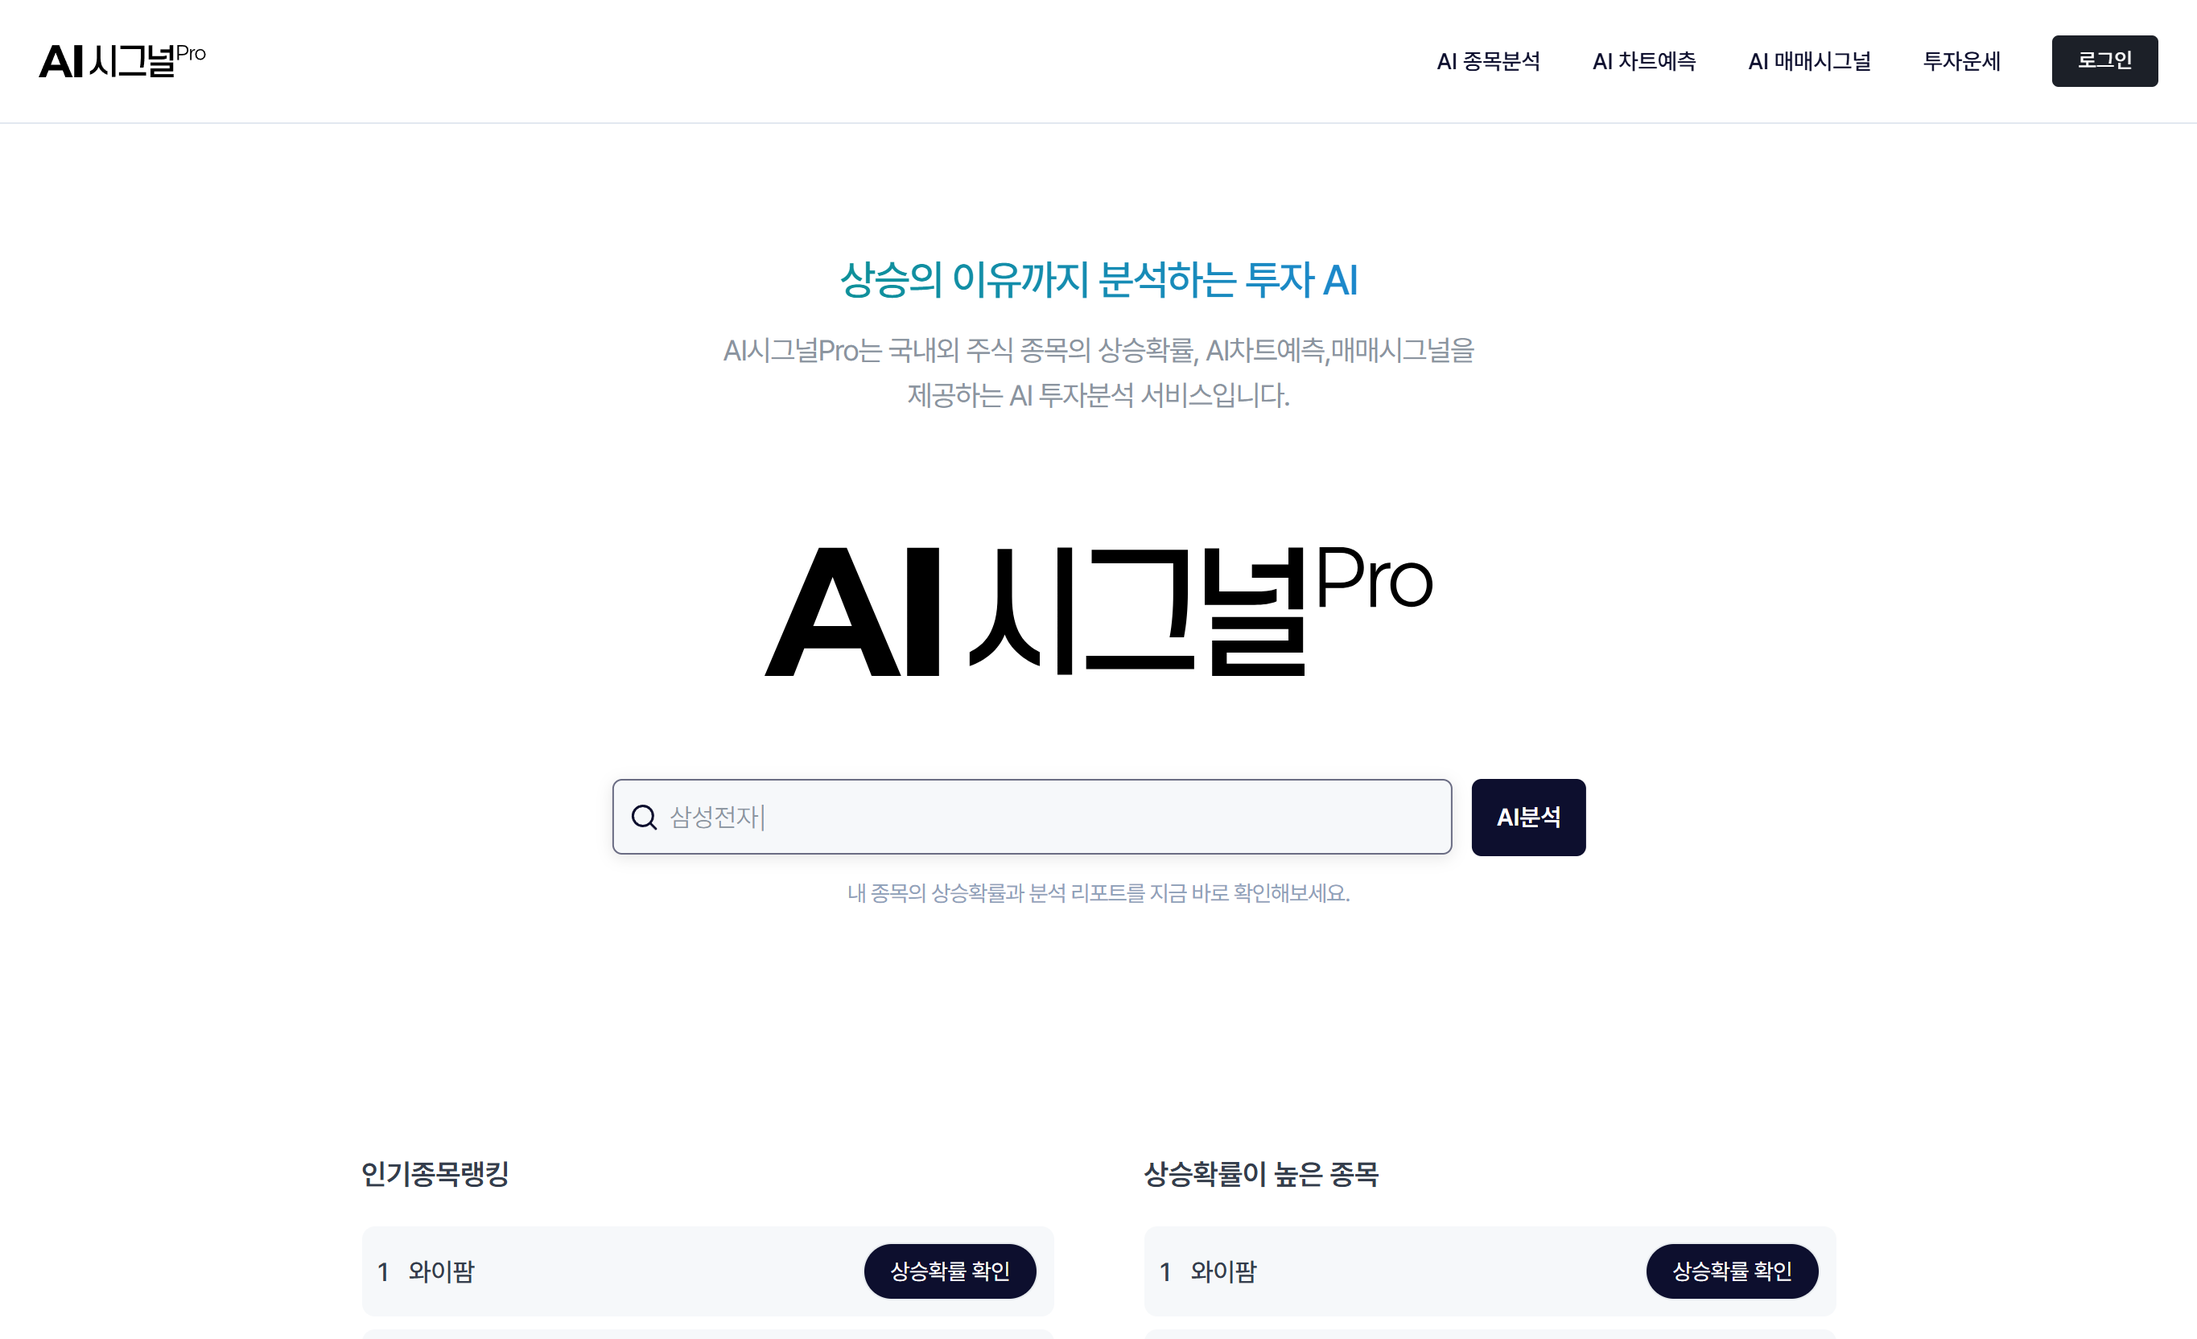
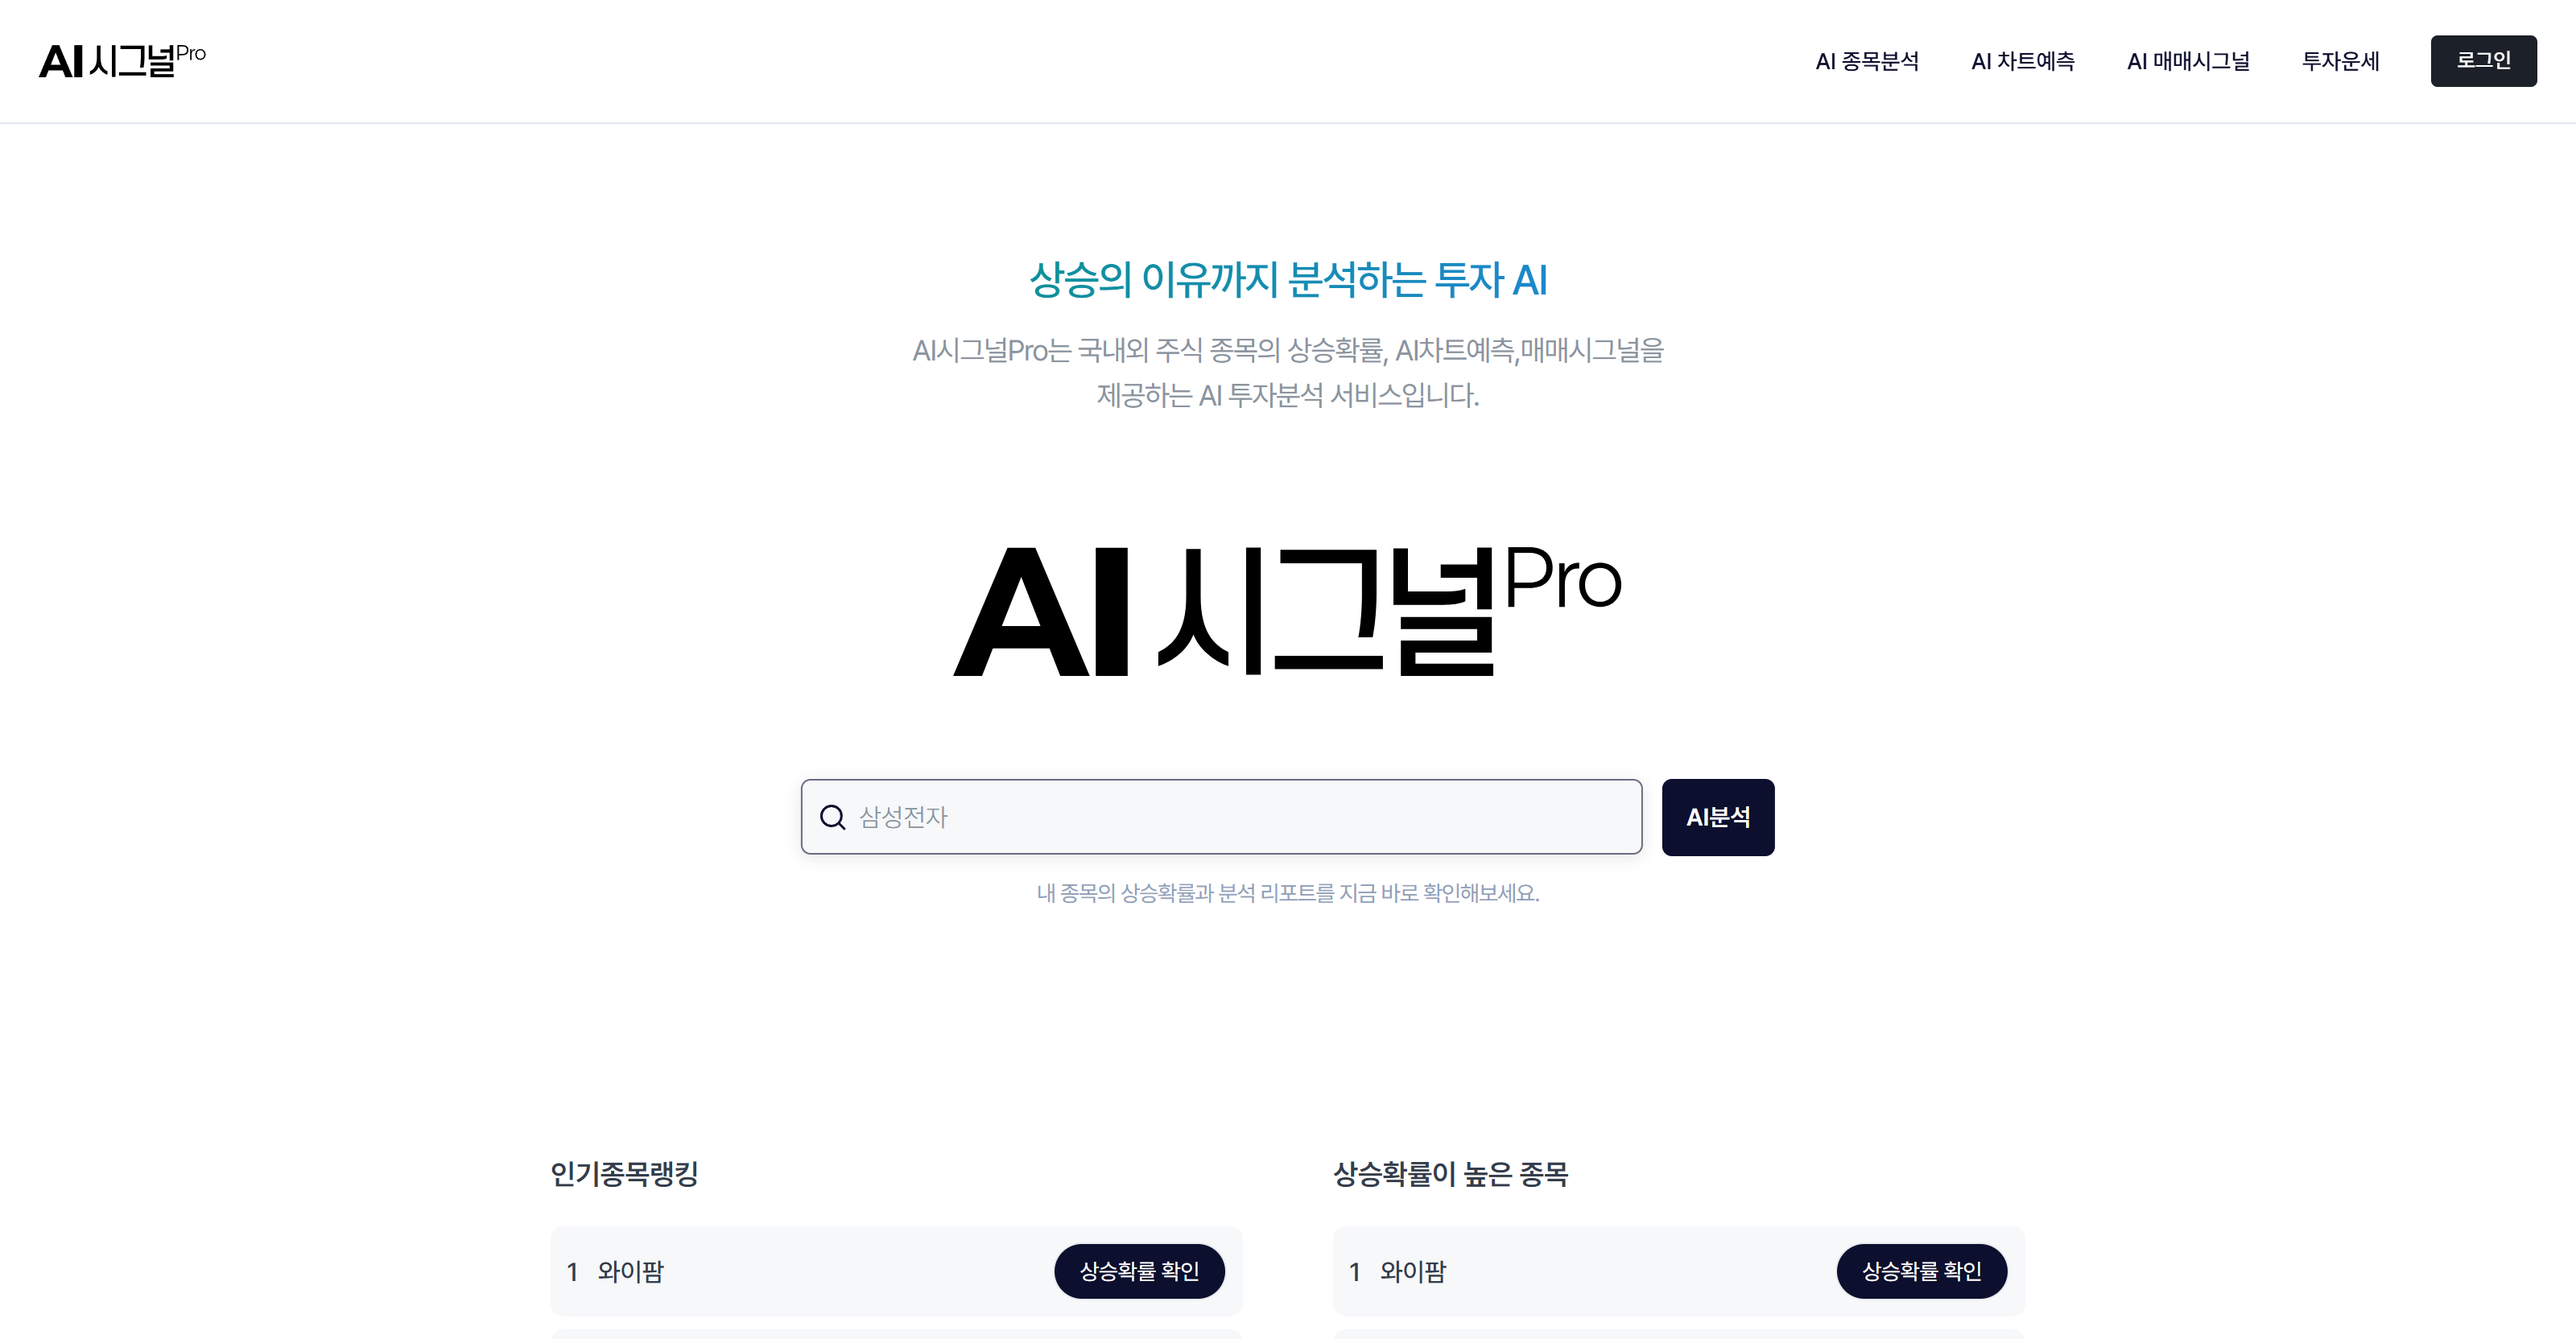
AI시그널프로 SEO 페이지 링크와 PC 캡처 갱신
PC 캡처를 다른 작업과 같은 1.92:1로 다시 찍어 모니터 틀에 맞춘다.

diff --git a/src/data/profile.ts b/src/data/profile.ts
@@ -163,6 +163,7 @@ export const profile: Profile = {
         'PM2',
         'Nginx',
       ],
+      demoUrl: 'https://lp.aisignalpro.co.kr/',
     },
     {
       id: 'ai-signal',

diff --git a/CLAUDE.md b/CLAUDE.md
@@ -289,7 +289,6 @@ npm run dev
 
 ## 남은 작업
 
-- **AI시그널프로 SEO 페이지** — `demoUrl`도 `linkNote`도 없어 Works·Experience의 링크 자리가 비어 있다.
 - **링크 공유 미리보기** — `index.html`에 `og:image`가 없어 메신저에 주소를 보내면 글자만 뜬다.
 - **설명 글 줄이기** — description이 대부분 5~6문장 문단이라 팝업에서 길다. 하나씩 줄이는 중.
 - **배포** — GitHub 저장소 연결 후 Vercel이 가장 간단하다.
